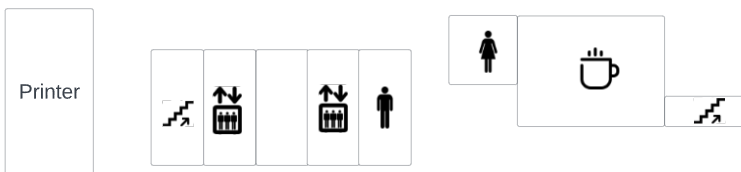
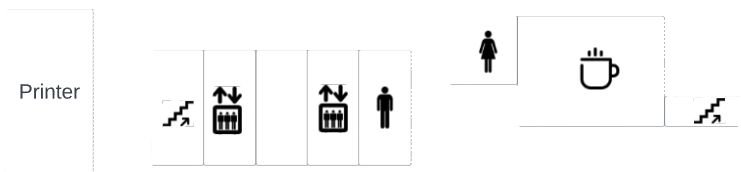
change map design

diff --git a/src/app/apps/home/map/components/map.component.html b/src/app/apps/home/map/components/map.component.html
@@ -1,12 +1,14 @@
-<div class="map-container">
+<div class="all">
+  <div class="map-container">
 
-  <ng-template #topComponent></ng-template>
-  <ng-template #secondTopComponent></ng-template>
-  <div style="display: flex; justify-content: left;">
-    <ng-template #leftComponent></ng-template>
-  </div>
-  <ng-template #topOfBottomComponent></ng-template>
-  <div style="display: flex; justify-content: center; margin-bottom:30px;">
-    <ng-template #bottomComponent></ng-template>
+    <ng-template #topComponent></ng-template>
+    <ng-template #secondTopComponent></ng-template>
+    <div style="display: flex; justify-content: left;">
+      <ng-template #leftComponent></ng-template>
+    </div>
+    <ng-template #topOfBottomComponent></ng-template>
+    <div style="display: flex; justify-content: center; margin-bottom:30px;">
+      <ng-template #bottomComponent></ng-template>
+    </div>
   </div>
 </div>

diff --git a/src/app/apps/home/second-top-component/second-top-component.component.css b/src/app/apps/home/second-top-component/second-top-component.component.css
@@ -25,7 +25,7 @@
   margin: 2px;
   height: 30px;
   width: 50px;
-  background-image: url('../../../../assets/desk.png');
+  background-image: url('../../../../assets/desk2.png');
   background-size: contain;
   background-repeat: no-repeat;
   background-position: center center;
@@ -33,16 +33,20 @@
   border-radius: 30px;
 }
 
-.rooms{
-    width:100%;
+.rooms {
+  width: 100%;
 }
+
 .room {
   margin: 2px;
+  margin-left: 200px;
   height: 60px;
   width: 100px;
   border: thin solid black;
   border-radius: 30px;
-  margin-left:200px;
+  font-family: 'Bauhaus 93';
+  font-size: 18px;
+  font-weight: 100;
 }
 
 .available {

diff --git a/src/app/apps/home/top-component/top-component.component.css b/src/app/apps/home/top-component/top-component.component.css
@@ -18,7 +18,7 @@
   margin: 2px;
   height: 30px;
   width: 50px;
-  background-image: url('../../../../assets/desk.png');
+  background-image: url('../../../../assets/desk2.png');
   background-size: contain;
   background-repeat: no-repeat;
   background-position: center center;
@@ -32,6 +32,9 @@
   width: 100px;
   border: thin solid black;
   border-radius: 30px;
+  font-family:'Bauhaus 93';
+  font-size:18px;
+  font-weight:100;
 }
 .available {
   background-color: #7ac38f;

diff --git a/src/app/apps/home/bottom-component/bottom-component.component.css b/src/app/apps/home/bottom-component/bottom-component.component.css
@@ -17,7 +17,7 @@
   margin: 2px;
   height: 30px;
   width: 50px;
-  background-image: url('../../../../assets/desk.png');
+  background-image: url('../../../../assets/desk2.png');
   background-size: contain;
   background-repeat: no-repeat;
   background-position: center center;
@@ -31,6 +31,9 @@
   width: 100px;
   border: thin solid black;
   border-radius: 30px;
+  font-family: 'Bauhaus 93';
+  font-size: 18px;
+  font-weight: 100;
 }
 
 .available {

diff --git a/src/app/apps/home/map/components/map.component.css b/src/app/apps/home/map/components/map.component.css
@@ -1,7 +1,13 @@
+.all {
+  background-color: #1a1a1a;
+  border:medium solid yellow;
+}
 .map-container {
-  flex:1;
-  width:100%;
-  background-image:url('../../../../../assets/map_bckg.png');
-  background-position:center center;
-  background-repeat:no-repeat;
+  flex: 1;
+  width: 100%;
+  background-image: url('../../../../../assets/map.png');
+  background-position: center center;
+  background-repeat: no-repeat;
+  background-size:60%;
+  
 }

diff --git a/src/app/apps/home/left-component/left-component.component.css b/src/app/apps/home/left-component/left-component.component.css
@@ -18,7 +18,7 @@ body.components {
   margin: 2px;
   height: 30px;
   width: 50px;
-  background-image: url('../../../../assets/desk.png');
+  background-image: url('../../../../assets/desk2.png');
   background-size: contain;
   background-repeat: no-repeat;
   background-position: center center;

diff --git a/src/app/apps/home/top-of-bottom-component/top-of-bottom-component.component.css b/src/app/apps/home/top-of-bottom-component/top-of-bottom-component.component.css
@@ -32,7 +32,7 @@
   margin: 2px;
   height: 30px;
   width: 50px;
-  background-image: url('../../../../assets/desk.png');
+  background-image: url('../../../../assets/desk2.png');
   background-size: contain;
   background-repeat: no-repeat;
   background-position: center center;
